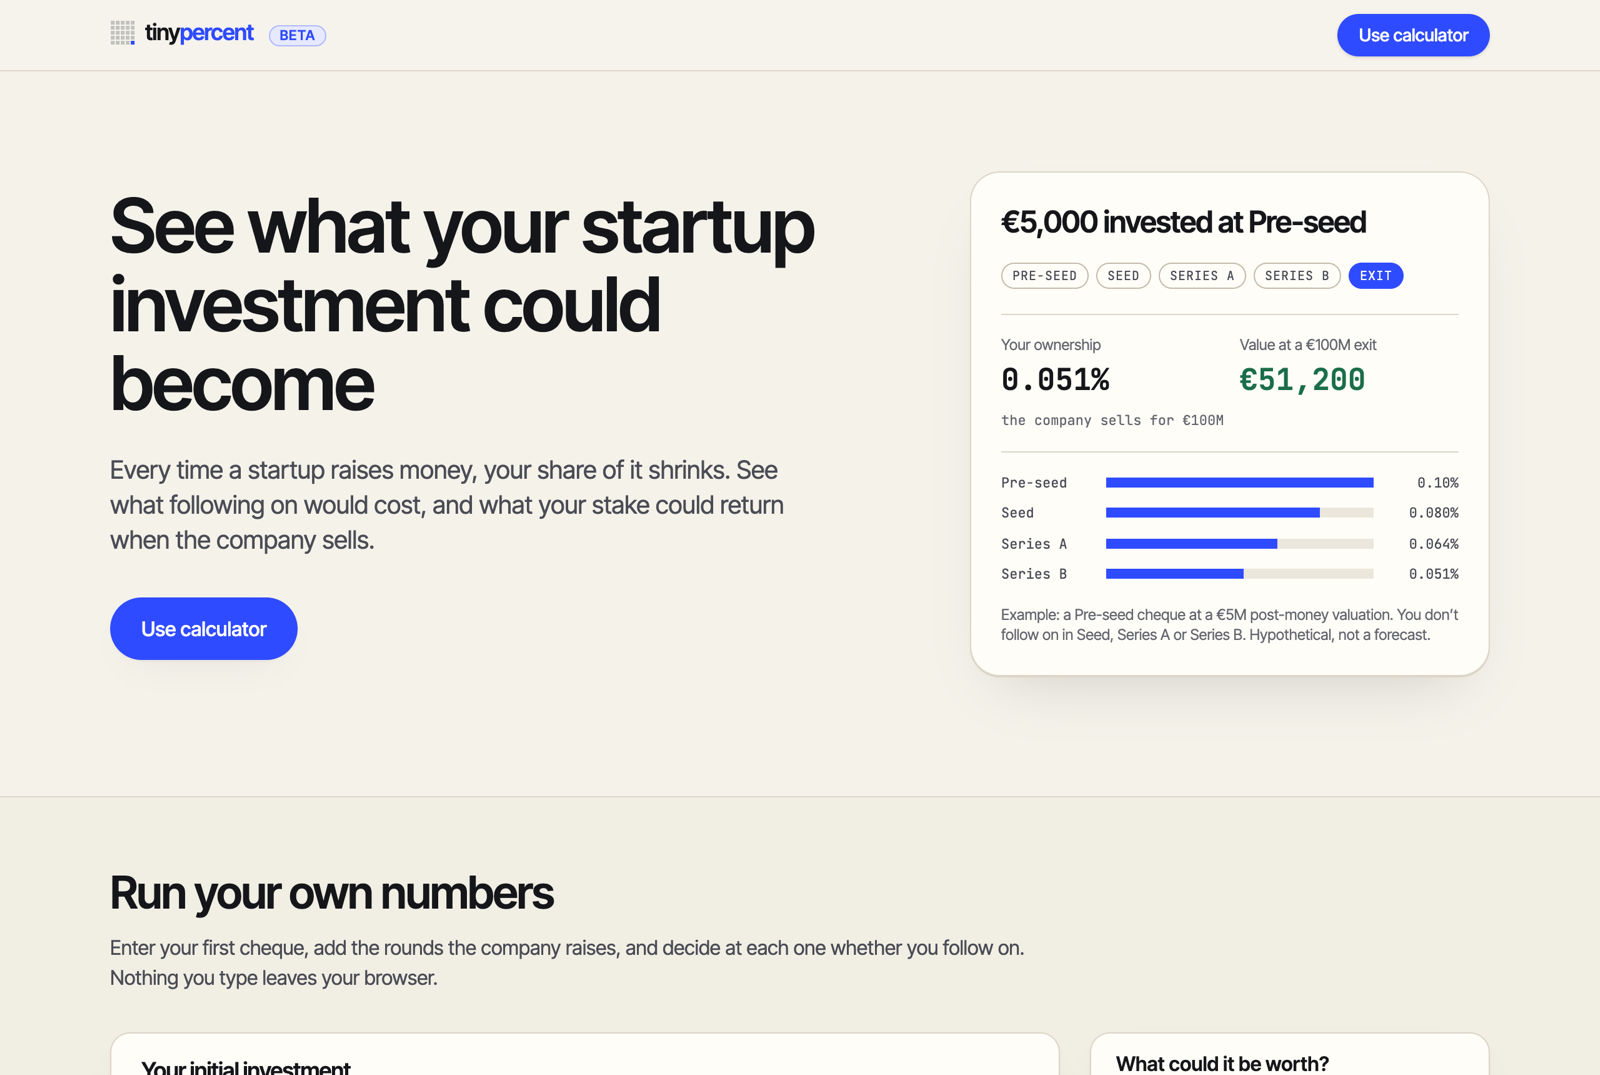
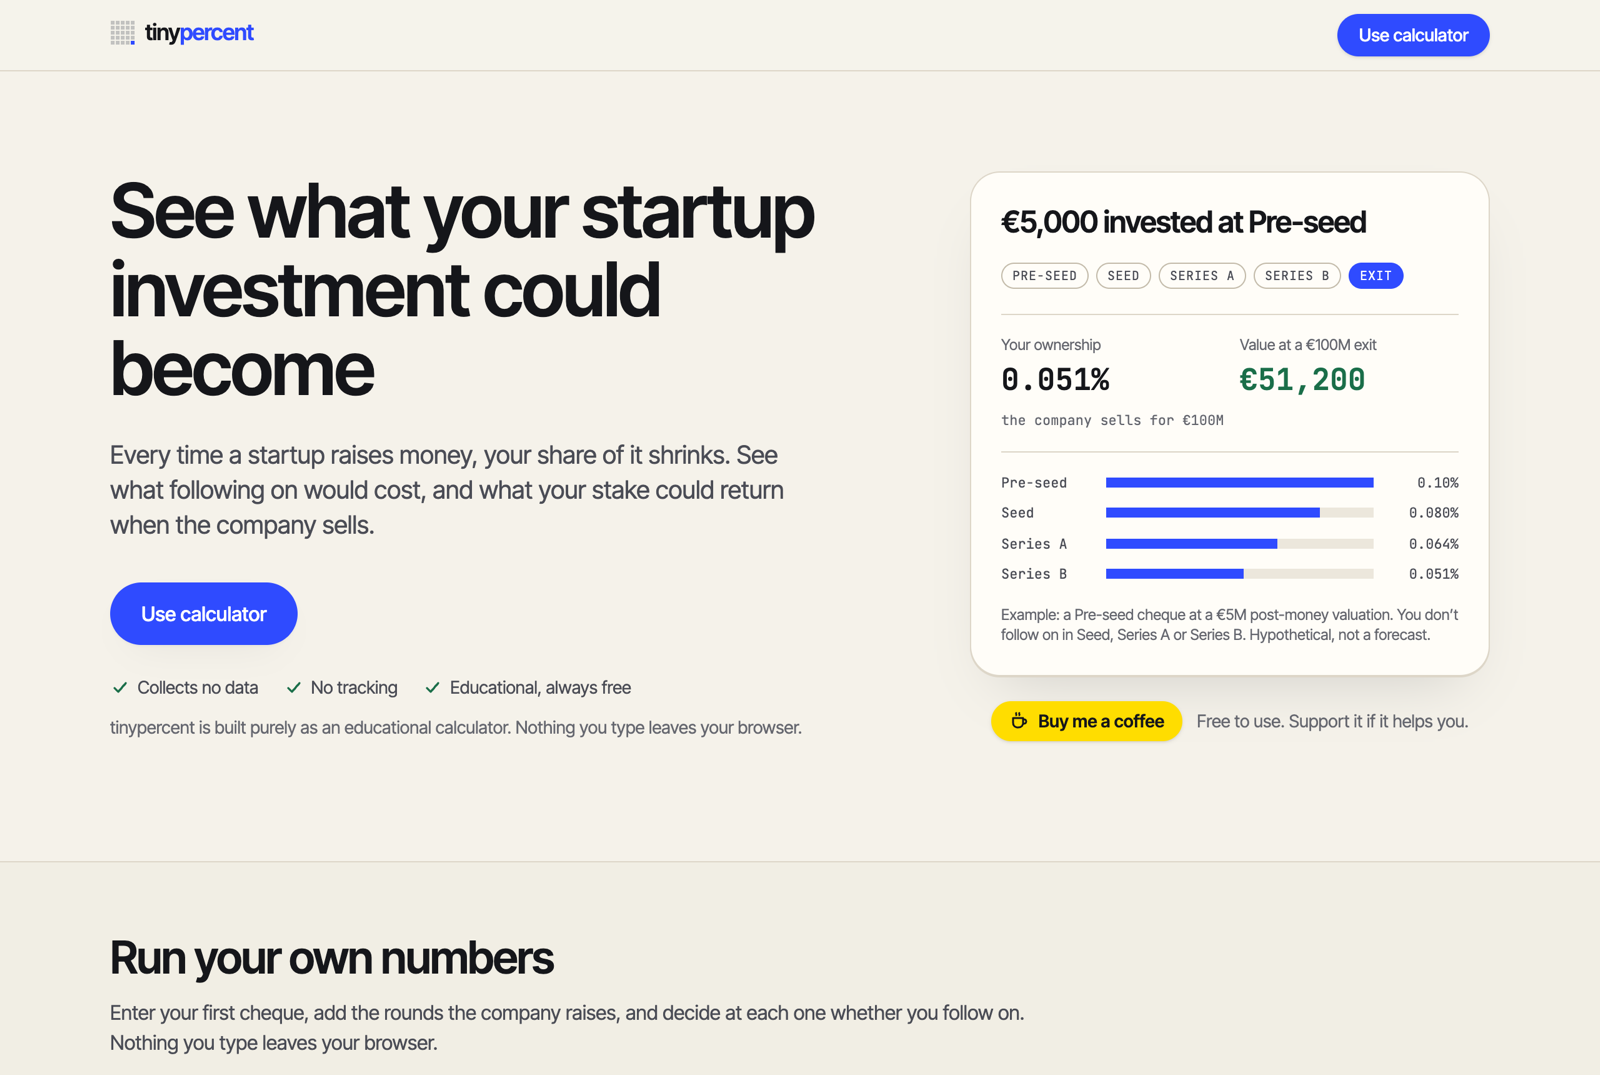
README: privacy promise, support section, retaken screenshots
New feature rows for the privacy promise and the free, supported
model, a short support section with a screenshot of the closing card,
and the hero, calculator and phone screenshots retaken without the
Beta badge and with the new links. Test count updated to 438 across 35
files.

diff --git a/README.md b/README.md
@@ -26,12 +26,12 @@ A free angel investment calculator that shows what your startup stake becomes as
   <img alt="TypeScript strict" src="https://img.shields.io/badge/TypeScript-strict-3178c6?logo=typescript&logoColor=white">
   <img alt="Vite 8" src="https://img.shields.io/badge/Vite-8-646cff?logo=vite&logoColor=white">
   <img alt="Tailwind CSS 4" src="https://img.shields.io/badge/Tailwind-4-38bdf8?logo=tailwindcss&logoColor=white">
-  <img alt="Vitest: 432 tests" src="https://img.shields.io/badge/Vitest-432%20tests-6e9f18?logo=vitest&logoColor=white">
+  <img alt="Vitest: 438 tests" src="https://img.shields.io/badge/Vitest-438%20tests-6e9f18?logo=vitest&logoColor=white">
   <img alt="Python oracle: 105 checks" src="https://img.shields.io/badge/Python%20oracle-105%20checks-3776ab?logo=python&logoColor=white">
   <img alt="Cloudflare Workers" src="https://img.shields.io/badge/Cloudflare-Workers-f38020?logo=cloudflare&logoColor=white">
 </p>
 
-![The tinypercent landing page: a €5,000 pre-seed cheque diluted to 0.051% and worth €51,200 at a €100M exit](docs/screenshots/hero.png)
+![The tinypercent landing page: a €5,000 pre-seed cheque diluted to 0.051% and worth €51,200 at a €100M exit, with "Collects no data, No tracking, Educational, always free" under the Use calculator button and a Buy me a coffee button](docs/screenshots/hero.png)
 
 ## Why it exists
 
@@ -53,13 +53,14 @@ Spreadsheets answer that badly, and full cap-table tools ask for numbers an ange
 | 📄 | **Deal PDF** | "Download PDF" saves the deal as a one-page A4 report, made in your browser. |
 | 🔗 | **Shareable links** | "Copy link" reopens exactly what you were looking at. The calculation lives after the `#` and never reaches a server. |
 | 🎓 | **The maths, explained** | Worked examples of equity, dilution, pro-rata and exits, and of shares against a SAFE and a note, every figure computed by the same engine. |
-| 🔒 | **Private by design** | No account, no tracking, no backend for the calculator. Nothing you type leaves your browser. |
+| 🔒 | **Private by design** | Collects no data and does no tracking: no account, no cookies, no analytics, no backend for the calculator. Nothing you type leaves your browser. |
+| ☕ | **Free, always** | An educational tool with no ads and no paywall, supported by the people who use it through Buy Me a Coffee. |
 
 ### Follow your stake through every round
 
 Enter your cheque and the rounds that follow. At each round, choose to sit out, pay your pro-rata to hold your share, or invest a different amount. Every choice updates your ownership, the paper value of your stake, and the return at exit, as you type.
 
-![The calculator: a €5,000 seed cheque, a Series A, the exit slider, the investment summary, and the Copy link and Download PDF bar](docs/screenshots/calculator.png)
+![The calculator: a €5,000 seed cheque, a Series A, the exit slider, the investment summary, the Copy link and Download PDF bar, and a Buy me a coffee line](docs/screenshots/calculator.png)
 
 ### Follow on or sit out?
 
@@ -111,13 +112,19 @@ A second section puts **shares, a SAFE and a convertible note** side by side: on
 
 ![Shares, SAFE or convertible note: the same €25,000 three ways, with the winning conversion route highlighted and a cheaper next round](docs/screenshots/instruments.png)
 
+### Free, and supported by the people who use it
+
+tinypercent is built purely as an educational calculator: it collects no data, tracks nothing, and is always free. The page says so in plain words under its first button. Anyone who finds it useful can support it through [Buy Me a Coffee](https://buymeacoffee.com/tinypercent): a yellow button under the opening example, a quiet line under the results, a short note from the maker at the end of the page, and a button in the footer. The links open Buy Me a Coffee in a new tab, nothing is sent to it before a click, and the privacy page says so.
+
+<p align="center"><img src="docs/screenshots/support.png" alt="Keep tinypercent free: a short note from Andrius and a yellow Buy me a coffee button" width="600"></p>
+
 ### Also
 
 - **Real round mechanics.** Pre-money or post-money valuations, new option pools created in a round, and pro-rata worked out for you.
 - **Euros or dollars**, and short shared links such as `tinypercent.com/shared#…`.
 - **Works on a phone**, with a summary bar that stays in view as you scroll.
 
-<p align="center"><img src="docs/screenshots/phone.png" alt="tinypercent on a phone: the investment summary, the Copy link and Download PDF bar, and the summary strip pinned to the bottom" width="320"></p>
+<p align="center"><img src="docs/screenshots/phone.png" alt="tinypercent on a phone: the investment summary, the Copy link and Download PDF bar, a Buy me a coffee line, and the summary strip pinned to the bottom" width="320"></p>
 
 ## Examples
 
@@ -144,7 +151,7 @@ $50,000 at a $10M post-money Series A, diluted to 0.32% by two later rounds. A $
 flowchart TB
   subgraph Build["Build and deploy: GitHub Actions on every push"]
     direction LR
-    O[Python oracle<br/>two independent models] -->|golden-cases.json| G[typecheck · lint<br/>432 tests · build]
+    O[Python oracle<br/>two independent models] -->|golden-cases.json| G[typecheck · lint<br/>438 tests · build]
     G -->|green on main:<br/>wrangler deploy| CF[Cloudflare Workers<br/>static assets]
   end
   subgraph Browser["In your browser: nothing leaves it"]
@@ -164,7 +171,7 @@ flowchart TB
 | **PDF** | jsPDF, loaded only when someone downloads a report. Built-in Helvetica, so no font is embedded and a report is about 6 KB |
 | **State and sharing** | One reducer for the whole scenario. Links compress it with the browser's `CompressionStream` into the URL fragment, so it never reaches a server |
 | **Rendering** | Every page prerendered to static HTML at build time, with sitemap and robots.txt, so content loads before any JavaScript runs |
-| **Testing** | 432 Vitest tests across 34 files (unit, property-based and render tests), plus an independent Python oracle: 105 assertions across 23 golden cases |
+| **Testing** | 438 Vitest tests across 35 files (unit, property-based and render tests), plus an independent Python oracle: 105 assertions across 23 golden cases |
 | **CI/CD** | GitHub Actions: typecheck, lint, tests, oracle drift check and build on every push; a green push to `main` deploys with Wrangler |
 | **Hosting** | Cloudflare Workers static assets at tinypercent.com, with a strict Content Security Policy and security headers on every response |
 
